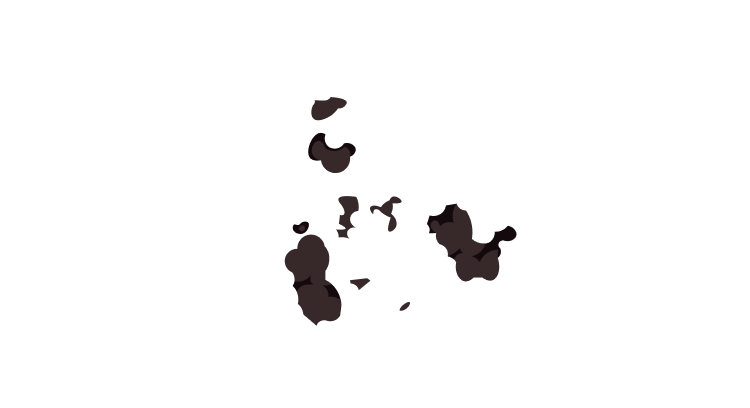
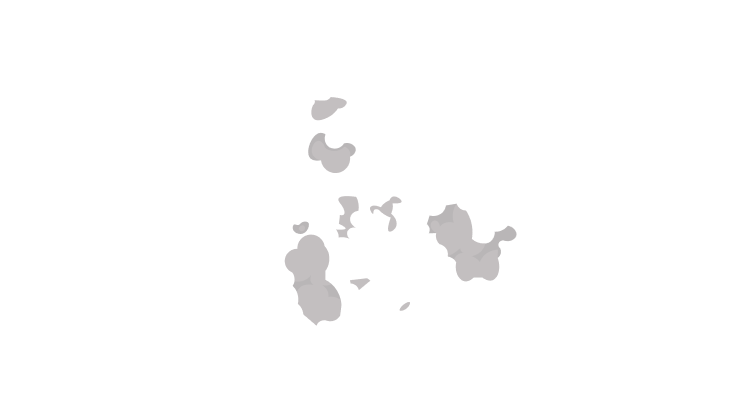
画像透明度上げた

diff --git a/src/components/background/Explostion.tsx b/src/components/background/Explostion.tsx
@@ -22,7 +22,7 @@ const Explosion = ({ playState }: Props) => {
         }
       };
 
-      counterData = setInterval(countUp, 20);
+      counterData = setInterval(countUp, 30);
     }
   }, [playState.judge === judgeStatus.failure]);
 
@@ -61,7 +61,7 @@ const Explosion = ({ playState }: Props) => {
 
   return (
     <>
-      {playState.judge === judgeStatus.failure  && <Image source={explosionImages[number]} style={styles.explosion} />}
+      {number !== 0  && <Image source={explosionImages[number]} style={styles.explosion} />}
     </>
   );
 };

diff --git a/src/modals/gameoverModal.tsx b/src/modals/gameoverModal.tsx
@@ -219,7 +219,7 @@ const styles = StyleSheet.create({
   },
   moneyBigImg: {
     width: 50,
-    height: 0,
+    height: 50,
     marginLeft: 8,
     marginRight: 4,
   },
